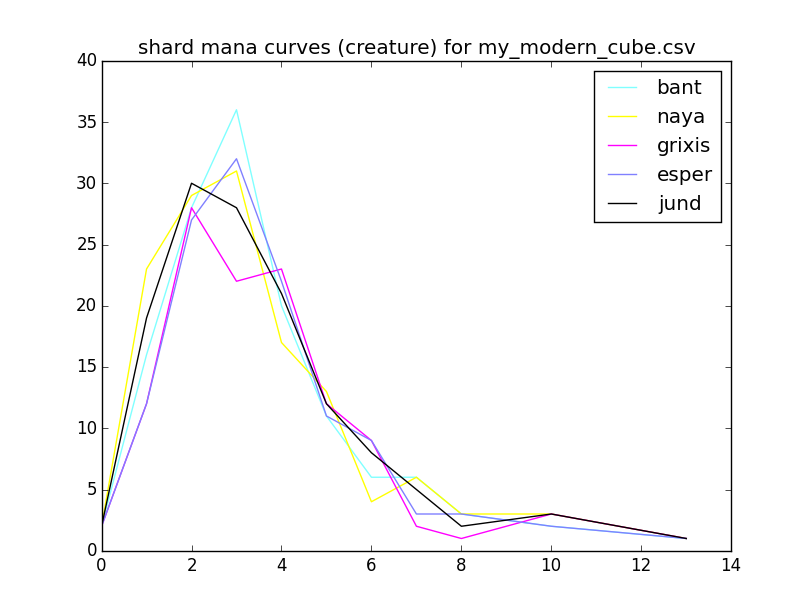
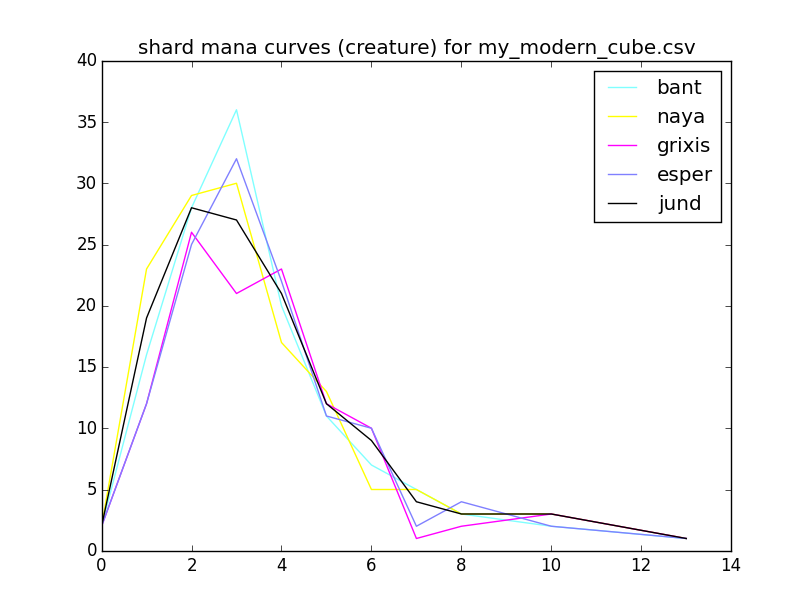
Update docs; use global CMC for multi-faced cards

Changed region(s): [[0.1847, 0.2794, 0.3387, 0.6209], [0.4002, 0.652, 0.6773, 0.9003]]

diff --git a/mtg.py b/mtg.py
@@ -174,9 +174,9 @@ class Faction:
 
             # Single color
             else:
-                logging.debug("Subcost {} payable by {}"
-                              .format(subcost,
-                              Faction.member_of(subcost)))
+                logging.debug("Subcost {} payable by {}".format(
+                    subcost, Faction.member_of(subcost)))
+
                 subcost = Faction.colorname(subcost)
                 can_play.intersection_update(Faction.member_of(subcost))
 
@@ -276,7 +276,10 @@ class Cards():
                 # is 'split', this doesn't make sense.
 
                 if 'card_faces' in self.db[name]:
+                    # Use the global cmc; other card details from front face
+                    cmc = self.db[name].get('cmc', 0)
                     self.db[name] = self.db[name]['card_faces'][0]
+                    self.db[name]['cmc'] = cmc
 
                 # Compatibility with previous Deckbrew format
                 self.db[name]['cost'] = self.db[name]['mana_cost']

diff --git a/README.md b/README.md
@@ -27,7 +27,7 @@ you're having problems.
 ## Usage
 ```
 usage: cubealyzer.py [-h] [-t [type]] [--subtype [subtype]] [-c] [-g] [-s]
-                     [-w] [-n] [--plot] [--test]
+                     [-w] [-n] [--plot] [--test] [-v] [-vv]
                      [FILE]
 
 Curve analysis tool for Magic: the Gathering cubes.
@@ -48,6 +48,8 @@ optional arguments:
   -n                   Calculate curves for nephilim
   --plot               Display plots of generated curves
   --test               Generate tests
+  -v, --verbose        Generate verbose output
+  -vv, --debug         Generate debug messages (and also verbose output)
 ```
 
 ## Example
@@ -56,57 +58,57 @@ Using [psyllogism's Modern Cube](http://www.cubetutor.com/viewcube/75206):
 
 ```
 $ ./cubealyzer.py -cg --plot my_modern_cube.csv
-Total cards playable in:
-black       177
+Total cards in:
+black       176
 blue        171
 green       181
 red         178
-white       174
-Cards of type creature playable in:
-black       55
+white       175
+Cards of type creature per color in:
+black       54
 blue        47
 green       60
-red         53
+red         52
 white       58
 Cards of type creature at each cost in:
-black       0: 2 1: 3 2:13 3:11 4:11 5: 4 6: 5 7: 2 8: 1 10: 2 13: 1
-blue        0: 2 1: 1 2: 9 3:12 4:10 5: 3 6: 4 7: 2 8: 1 10: 2 13: 1
-green       0: 2 1: 8 2:12 3:16 4: 8 5: 3 6: 2 7: 4 8: 2 10: 2 13: 1
-red         0: 2 1: 9 2:12 3: 8 4: 8 5: 5 6: 2 7: 2 8: 1 10: 3 13: 1
-white       0: 2 1: 8 2:11 3:16 4: 7 5: 4 6: 2 7: 3 8: 2 10: 2 13: 1
-Total cards playable in:
-azorius     235
-boros       240
-dimir       234
-golgari     247
+black       0: 2 1: 3 2:11 3:11 4:11 5: 4 6: 6 7: 1 8: 2 10: 2 13: 1
+blue        0: 2 1: 1 2: 9 3:12 4:10 5: 3 6: 5 7: 1 8: 1 10: 2 13: 1
+green       0: 2 1: 8 2:12 3:16 4: 8 5: 3 6: 3 7: 3 8: 2 10: 2 13: 1
+red         0: 2 1: 9 2:12 3: 7 4: 8 5: 5 6: 3 7: 1 8: 1 10: 3 13: 1
+white       0: 2 1: 8 2:11 3:16 4: 7 5: 4 6: 3 7: 2 8: 2 10: 2 13: 1
+Total cards in:
+azorius     236
+boros       241
+dimir       233
+golgari     246
 gruul       246
 izzet       238
 orzhov      239
-rakdos      241
-selesnya    241
+rakdos      240
+selesnya    242
 simic       240
-Cards of type creature playable in:
+Cards of type creature per guild in:
 azorius     88
-boros       91
-dimir       82
-golgari     97
-gruul       94
-izzet       81
-orzhov      94
-rakdos      88
+boros       90
+dimir       81
+golgari     96
+gruul       93
+izzet       80
+orzhov      93
+rakdos      86
 selesnya    99
 simic       90
 Cards of type creature at each cost in:
-azorius     0: 2 1: 9 2:17 3:26 4:14 5: 7 6: 5 7: 3 8: 2 10: 2 13: 1
-boros       0: 2 1:16 2:20 3:20 4:12 5: 9 6: 3 7: 3 8: 2 10: 3 13: 1
-dimir       0: 2 1: 4 2:19 3:18 4:18 5: 7 6: 8 7: 2 8: 1 10: 2 13: 1
-golgari     0: 2 1:11 2:22 3:24 4:16 5: 7 6: 6 7: 4 8: 2 10: 2 13: 1
-gruul       0: 2 1:17 2:20 3:20 4:13 5: 8 6: 3 7: 5 8: 2 10: 3 13: 1
-izzet       0: 2 1:10 2:18 3:16 4:15 5: 8 6: 5 7: 2 8: 1 10: 3 13: 1
-orzhov      0: 2 1:11 2:21 3:23 4:15 5: 8 6: 6 7: 3 8: 2 10: 2 13: 1
-rakdos      0: 2 1:11 2:22 3:15 4:16 5: 9 6: 6 7: 2 8: 1 10: 3 13: 1
-selesnya    0: 2 1:15 2:21 3:27 4:12 5: 8 6: 3 7: 5 8: 3 10: 2 13: 1
-simic       0: 2 1: 9 2:19 3:23 4:16 5: 6 6: 5 7: 5 8: 2 10: 2 13: 1
+azorius     0: 2 1: 9 2:17 3:26 4:14 5: 7 6: 6 7: 2 8: 2 10: 2 13: 1
+boros       0: 2 1:16 2:20 3:19 4:12 5: 9 6: 4 7: 2 8: 2 10: 3 13: 1
+dimir       0: 2 1: 4 2:17 3:18 4:18 5: 7 6: 9 7: 1 8: 2 10: 2 13: 1
+golgari     0: 2 1:11 2:20 3:24 4:16 5: 7 6: 7 7: 3 8: 3 10: 2 13: 1
+gruul       0: 2 1:17 2:20 3:19 4:13 5: 8 6: 4 7: 4 8: 2 10: 3 13: 1
+izzet       0: 2 1:10 2:18 3:15 4:15 5: 8 6: 6 7: 1 8: 1 10: 3 13: 1
+orzhov      0: 2 1:11 2:19 3:23 4:15 5: 8 6: 7 7: 2 8: 3 10: 2 13: 1
+rakdos      0: 2 1:11 2:20 3:14 4:16 5: 9 6: 7 7: 1 8: 2 10: 3 13: 1
+selesnya    0: 2 1:15 2:21 3:27 4:12 5: 8 6: 4 7: 4 8: 3 10: 2 13: 1
+simic       0: 2 1: 9 2:19 3:23 4:16 5: 6 6: 6 7: 4 8: 2 10: 2 13: 1
 ```
 
 ![Color curves example](images/color_curves_example.png)
